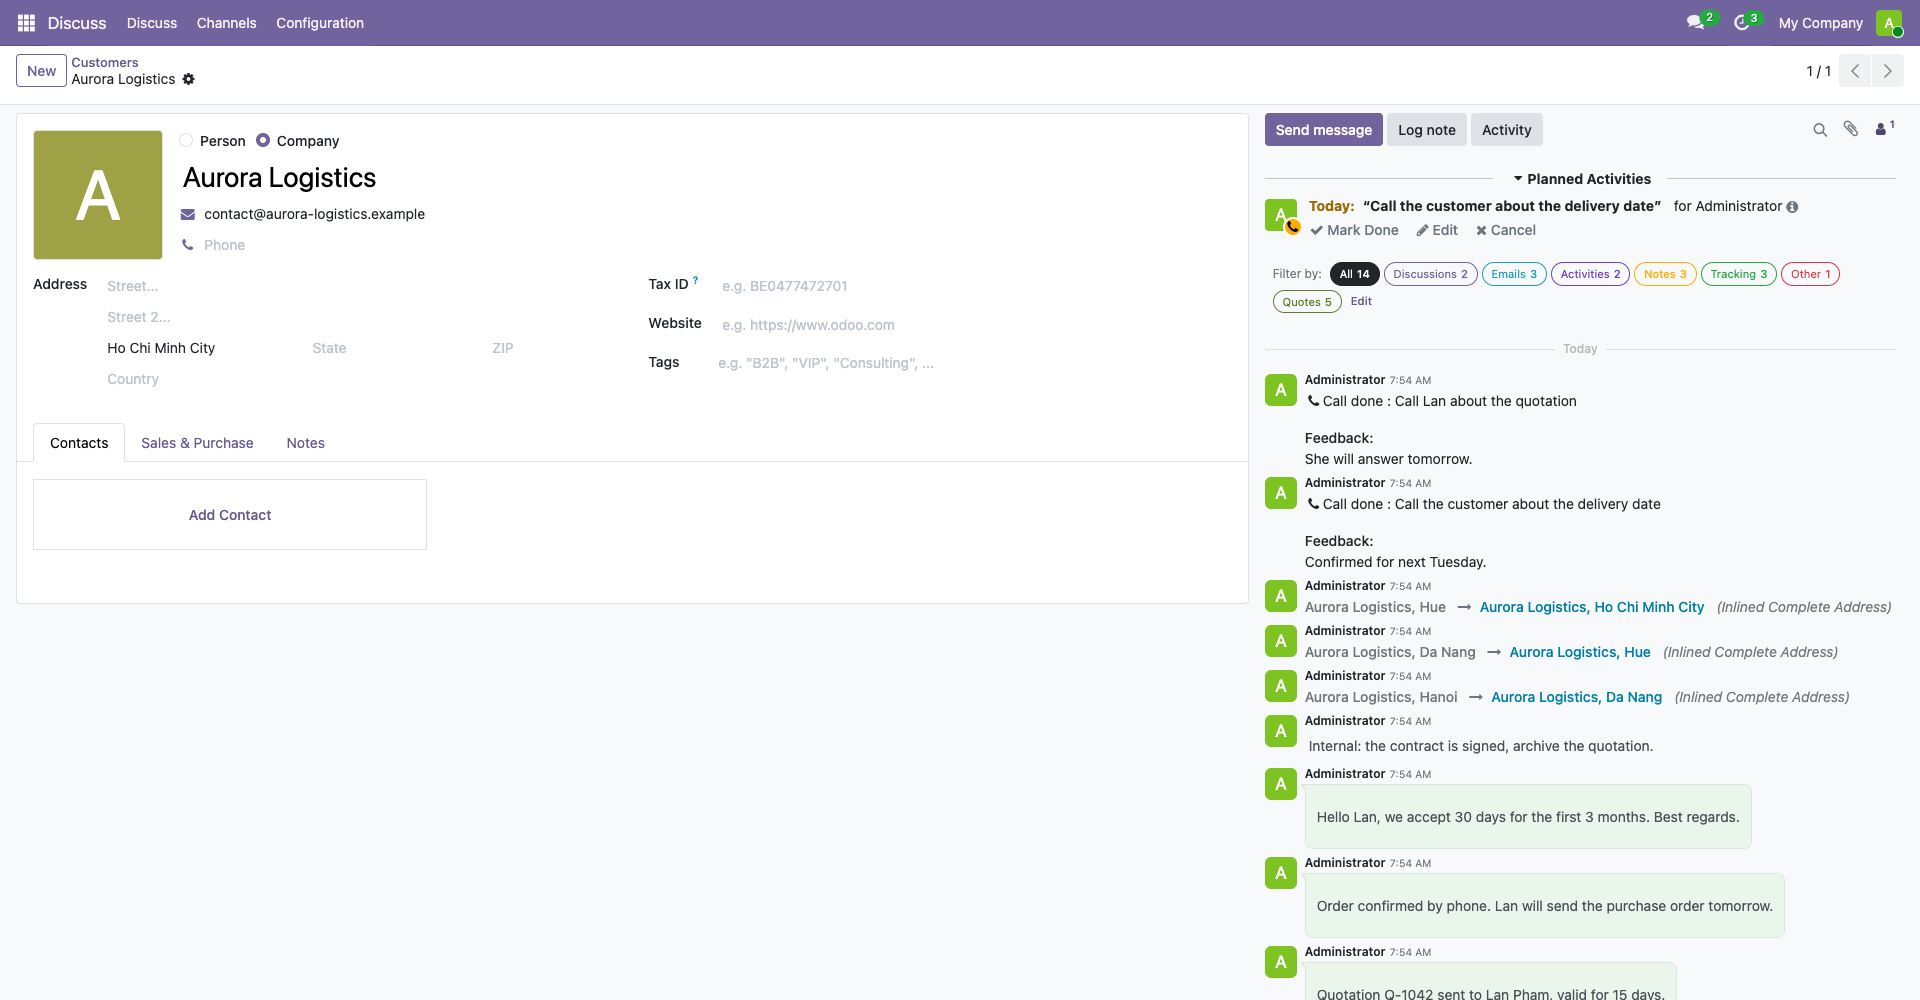
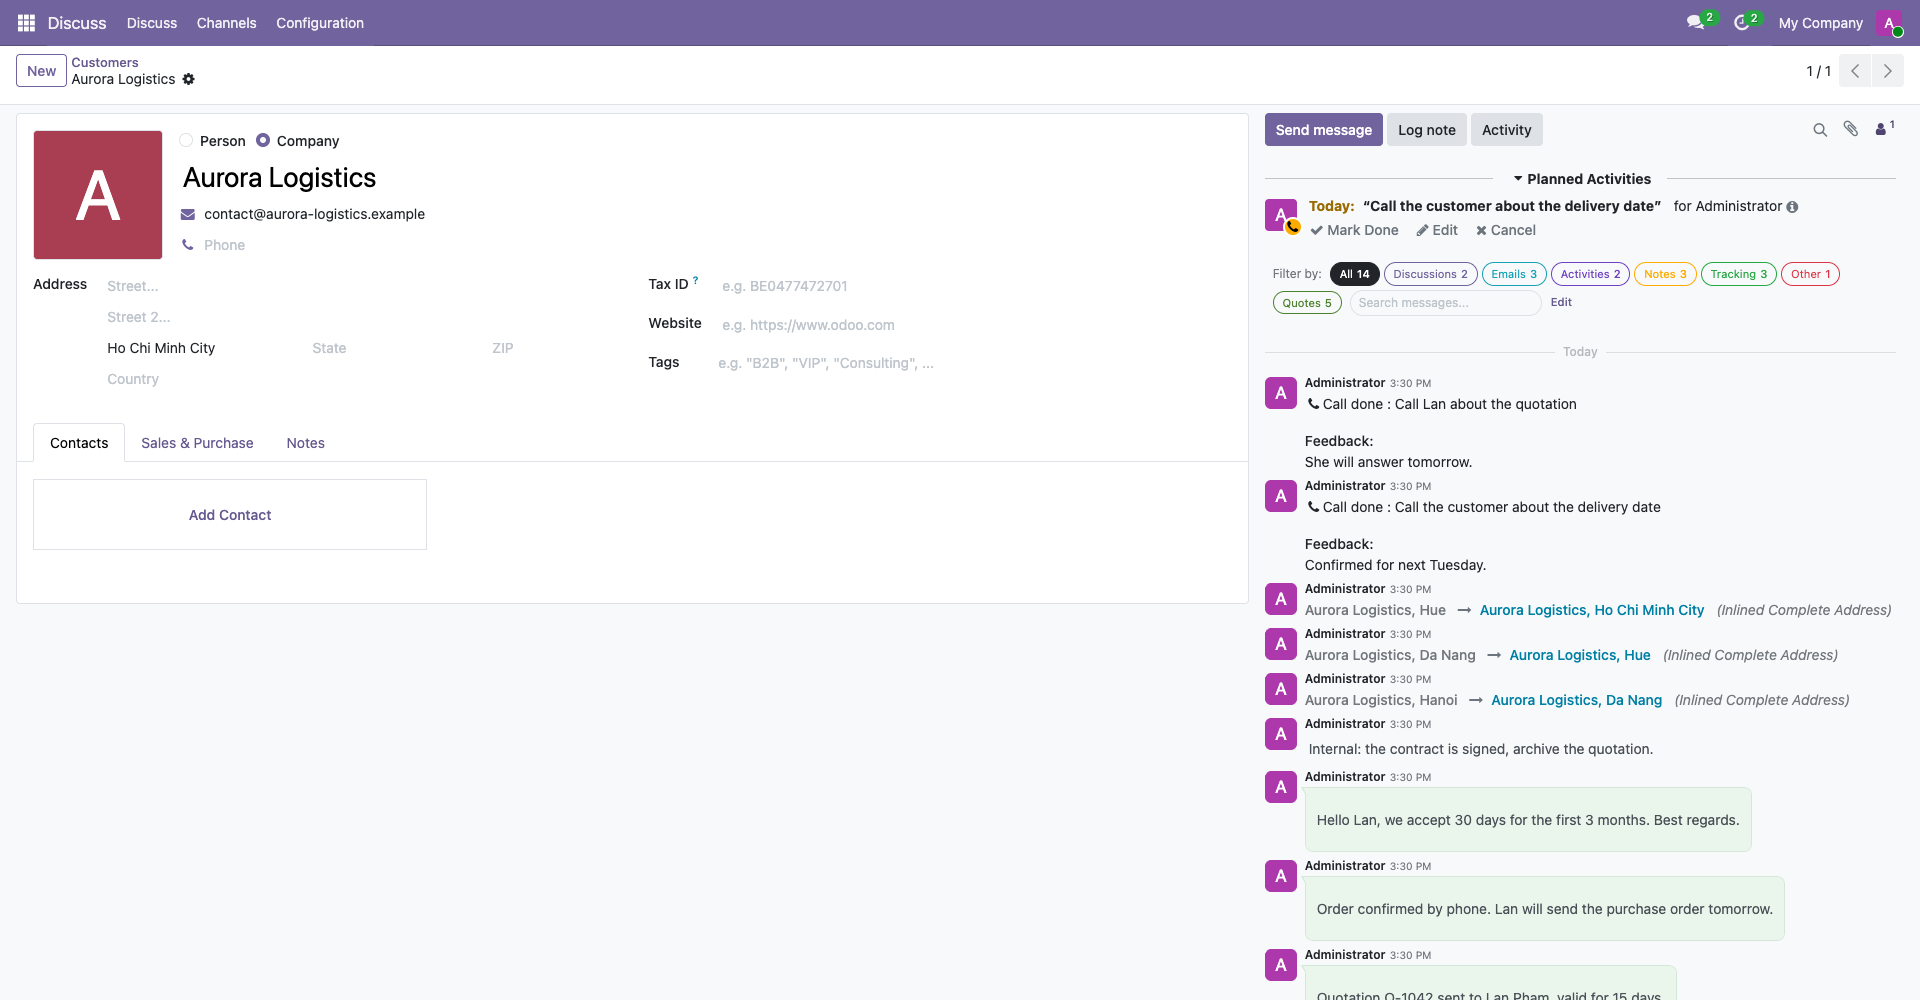
dwo_chatter_filter: search box, new screenshots and listing text

diff --git a/dwo_chatter_filter/static/description/index.html b/dwo_chatter_filter/static/description/index.html
@@ -8,7 +8,7 @@
     </div>
 
     <div class="my-5">
-        <p class="mb-4" style="font-size: 17px;">A long-lived record has hundreds of messages: talks, emails, notes, changed fields and automatic notices, all mixed. The search box only finds words. <strong>Chatter Quick Filter</strong> shows the messages you care about with one click, with the number of messages on every chip. And the chips are yours: want a <em>Quotes</em> chip, or <em>Messages from the customer</em>? The administrator makes it in a minute, and every chatter shows it.</p>
+        <p class="mb-4" style="font-size: 17px;">A long-lived record has hundreds of messages: talks, emails, notes, changed fields and automatic notices, all mixed. <strong>Chatter Quick Filter</strong> shows the messages you care about with one click, with the number of messages on every chip, and a search box right beside the chips finds the words you remember. And the chips are yours: want a <em>Quotes</em> chip, or <em>Messages from the customer</em>? The administrator makes it in a minute, and every chatter shows it.</p>
         <div class="text-center mb-4">
             <img src="flow.png" alt="Open a record, see your chips, click one, only those messages are shown" class="img-fluid rounded shadow-sm"/>
         </div>
@@ -59,8 +59,8 @@
         <div class="col-md-4 mb-4">
             <div class="card h-100" style="border-top: 4px solid #875A7B;">
                 <div class="card-body">
-                    <h4 class="font-weight-bold mt-0 mb-3" style="font-size: 18px; color: #4A2F45;">Done by the server</h4>
-                    <p class="mb-0" style="font-size: 14px;">Load more works on the filtered list, not only on what is loaded.</p>
+                    <h4 class="font-weight-bold mt-0 mb-3" style="font-size: 18px; color: #4A2F45;">Search box</h4>
+                    <p class="mb-0" style="font-size: 14px;">Type a word beside the chips: contents, subject, author or sender, together with the chip you chose.</p>
                 </div>
             </div>
         </div>
@@ -102,6 +102,12 @@
         <img src="screenshot_6.png" alt="The chatter with a new Quotes chip filtering the messages that mention a quotation" class="img-fluid rounded shadow"/>
     </div>
 
+    <h2 class="font-weight-bold mt-5 mb-3" style="font-size: 30px; color: #4A2F45;">Search beside the chips</h2>
+    <p class="mb-4" style="font-size: 16px;">Type a word and wait a moment: only the messages with it in their contents, subject, author or sender stay, and every chip count follows. <strong>X</strong> or <strong>Esc</strong> clears the box.</p>
+    <div class="text-center mb-4">
+        <img src="screenshot_7.png" alt="The chatter with the word quotation typed in the search box next to the chips, showing only the messages that contain it" class="img-fluid rounded shadow"/>
+    </div>
+
     <h2 class="font-weight-bold mt-5 mb-3" style="font-size: 30px; color: #4A2F45;">Requirements &amp; Installation</h2>
     <p class="mb-3" style="font-size: 16px;">Needs only the standard <code>mail</code> module. No external library.</p>
     <p class="mb-3 p-3 border rounded" style="font-size: 15px; border-left: 4px solid #875A7B;">For internal users. Only administrators see the Edit link. The choice of chip is not kept: the next time you open a record, all messages are shown.</p>
@@ -127,6 +133,7 @@
         <div class="tab-pane fade" id="dcf_use" role="tabpanel">
             <h4 class="font-weight-bold mt-0 mb-3" style="font-size: 18px; color: #875A7B;">Filter the messages</h4>
             <p class="mb-2" style="font-size: 14px;">Under <strong>Filter by:</strong>, click a chip to see its messages only. Click <strong>All</strong> to see everything again.</p>
+            <p class="mb-2" style="font-size: 14px;">Type in the box beside the chips to search the messages: contents, subject, author and sender, any case. It goes with the chip you chose, and the counts follow. <strong>X</strong> or <strong>Esc</strong> clears it.</p>
             <h4 class="font-weight-bold mt-0 mb-3" style="font-size: 18px; color: #875A7B;">Edit the chips (administrators)</h4>
             <p class="mb-2" style="font-size: 14px;">Click <strong>Edit</strong> after the last chip. The list shows the chips: drag a line by its handle to change the order, use the toggle to archive or bring back a chip. <strong>New</strong> makes a chip with its own colour.</p>
             <p class="mb-2" style="font-size: 14px;">Open a chip to change its name, its colour and its filter. The filter is the usual rule editor on the messages: contents, type, author, date, and more. Save, reload the page, and every chatter shows the change.</p>
@@ -137,12 +144,21 @@
         <div class="tab-pane fade" id="dcf_limits" role="tabpanel">
             <h4 class="font-weight-bold mt-0 mb-3" style="font-size: 18px; color: #875A7B;">Good to know</h4>
             <p class="mb-2" style="font-size: 14px;">It works in the chatter of a record, not in Discuss or the inbox.</p>
-            <p class="mb-2" style="font-size: 14px;">One kind at a time. While you search messages with the magnifier, the badges are hidden.</p>
+            <p class="mb-2" style="font-size: 14px;">One kind of chip at a time. The search matches the stored text of the message, which is HTML, so a word that is part of a tag name can match. Odoo's own magnifier of the chatter is separate: while you use it, the badges are hidden.</p>
         </div>
     </div>
 
     <h2 class="font-weight-bold mt-5 mb-3" style="font-size: 30px; color: #4A2F45;">Changelog</h2>
     <p class="mb-3" style="font-size: 16px;">Module releases, newest first.</p>
+    <div class="card mb-3"><div class="card-body">
+        <div class="row">
+            <div class="col-md-3 mb-2">
+                <h4 class="font-weight-bold mt-0 mb-1" style="font-size: 18px; color: #875A7B;">2.0</h4>
+                <p class="text-muted mb-0" style="font-size: 13px;">2026-11-14</p>
+            </div>
+            <div class="col-md-9"><p class="mb-0" style="font-size: 14px;">Search box beside the chips: contents, subject, author and sender, together with the chosen chip.</p></div>
+        </div>
+    </div></div>
     <div class="card mb-3"><div class="card-body">
         <div class="row">
             <div class="col-md-3 mb-2">
@@ -166,6 +182,10 @@
     <div class="card mb-3"><div class="card-body">
         <h4 class="font-weight-bold mt-0 mb-2" style="font-size: 16px; color: #4A2F45;">Who can edit the chips?</h4>
         <p class="mb-0" style="font-size: 14px;">Administrators (Settings access). Everyone else sees the chips and uses them, without the Edit link.</p>
+    </div></div>
+    <div class="card mb-3"><div class="card-body">
+        <h4 class="font-weight-bold mt-0 mb-2" style="font-size: 16px; color: #4A2F45;">What does the search box look into?</h4>
+        <p class="mb-0" style="font-size: 14px;">The contents, the subject, the name of the author and the sender email of the messages, in any case. It waits for a short pause in your typing, works together with the chip you chose, and the chip counts follow the text.</p>
     </div></div>
     <div class="card mb-3"><div class="card-body">
         <h4 class="font-weight-bold mt-0 mb-2" style="font-size: 16px; color: #4A2F45;">What can a chip filter on?</h4>

diff --git a/dwo_chatter_filter/static/src/filter/dwo_message_filter.js b/dwo_chatter_filter/static/src/filter/dwo_message_filter.js
@@ -33,19 +33,23 @@ export class DwoMessageFilter extends Component {
         this.orm = useService("orm");
         this.action = useService("action");
         this.isAdmin = user.isAdmin;
-        this.state = useState({ data: null });
+        this.state = useState({ data: null, text: "" });
+        this.searchTimer = null;
         this.timer = null;
         this.lastNewestId = undefined;
         onWillUnmount(() => {
             this.unmounted = true;
             clearTimeout(this.timer);
+            clearTimeout(this.searchTimer);
         });
         // a new record, or leaving this one: back to all the messages
         useEffect(
             (thread) => {
                 this.loadChips();
+                this.state.text = thread.dwoSearch || "";
                 return () => {
                     clearTimeout(this.timer);
+                    clearTimeout(this.searchTimer);
                     thread.dwoReset();
                 };
             },
@@ -94,6 +98,7 @@ export class DwoMessageFilter extends Component {
             const data = await this.orm.call("mail.message", "dwo_filter_chips", [
                 thread.model,
                 thread.id,
+                thread.dwoSearch || null,
             ]);
             if (this.unmounted) {
                 return;
@@ -118,7 +123,7 @@ export class DwoMessageFilter extends Component {
         this.lastNewestId = newestId;
         await this.loadChips();
         // the server decides which messages a chip shows: ask it again when a new message came
-        if (changed && thread.dwoFilter && !this.unmounted) {
+        if (changed && (thread.dwoFilter || thread.dwoSearch) && !this.unmounted) {
             await thread.dwoReload();
             this.lastNewestId = thread.newestPersistentMessage?.id;
         }
@@ -127,6 +132,36 @@ export class DwoMessageFilter extends Component {
     async select(item) {
         await this.props.thread.dwoSetFilter(item.id);
         this.lastNewestId = this.props.thread.newestPersistentMessage?.id;
+    }
+
+    /** Typing: search 300 ms after the last key. */
+    onSearchInput(ev) {
+        this.state.text = ev.target.value;
+        clearTimeout(this.searchTimer);
+        this.searchTimer = setTimeout(() => this.applySearch(), 300);
+    }
+
+    onSearchKeydown(ev) {
+        if (ev.key === "Escape" && this.state.text) {
+            ev.stopPropagation();
+            this.clearSearch();
+        }
+    }
+
+    clearSearch() {
+        this.state.text = "";
+        clearTimeout(this.searchTimer);
+        return this.applySearch();
+    }
+
+    async applySearch() {
+        const thread = this.props.thread;
+        if (this.unmounted) {
+            return;
+        }
+        await thread.dwoSetSearch(this.state.text);
+        this.lastNewestId = thread.newestPersistentMessage?.id;
+        await this.loadChips();
     }
 
     edit() {

diff --git a/dwo_chatter_filter/static/src/thread_patch.js b/dwo_chatter_filter/static/src/thread_patch.js
@@ -8,11 +8,13 @@ patch(ThreadModel.prototype, {
         super.setup(...arguments);
         /** The id of the chip chosen (the messages it shows are the only ones loaded), false for all. */
         this.dwoFilter = fields.Attr(false);
+        /** The text searched in the messages (the server searches), empty for no search. */
+        this.dwoSearch = fields.Attr("");
     },
 
     /** While a chip is chosen, the server only returns the messages of that chip (Load more included). */
     async fetchMessagesData({ after, around, before } = {}) {
-        if (!this.dwoFilter) {
+        if (!this.dwoFilter && !this.dwoSearch) {
             return super.fetchMessagesData(...arguments);
         }
         return await rpc(this.getFetchRoute(), {
@@ -24,6 +26,7 @@ patch(ThreadModel.prototype, {
                 around,
                 before,
                 dwo_filter_id: this.dwoFilter,
+                dwo_search: this.dwoSearch,
             },
         });
     },
@@ -47,6 +50,17 @@ patch(ThreadModel.prototype, {
         await this.fetchNewMessages();
     },
 
+    /** Search a text in the messages, together with the chip chosen. */
+    async dwoSetSearch(text) {
+        text = (text || "").trim();
+        if (this.dwoSearch === text) {
+            return;
+        }
+        this.dwoSearch = text;
+        this.dwoForgetMessages();
+        await this.fetchNewMessages();
+    },
+
     /** Load the messages of the chosen chip again (a message arrived: the server says if it belongs). */
     async dwoReload() {
         this.dwoForgetMessages();
@@ -55,8 +69,9 @@ patch(ThreadModel.prototype, {
 
     /** Back to all the messages, for the next time the record is opened. */
     dwoReset() {
-        if (this.dwoFilter) {
+        if (this.dwoFilter || this.dwoSearch) {
             this.dwoFilter = false;
+            this.dwoSearch = "";
             this.dwoForgetMessages();
         }
     },

diff --git a/dwo_chatter_filter/static/tests/tours/filter_tour.js b/dwo_chatter_filter/static/tests/tours/filter_tour.js
@@ -132,3 +132,31 @@ registry.category("web_tour.tours").add("dwo_chatter_filter_no_edit", {
         { trigger: ".o-mail-Chatter:not(:has(.o-dwo-filterEdit))" },
     ],
 });
+
+registry.category("web_tour.tours").add("dwo_chatter_filter_search", {
+    steps: () => [
+        { trigger: ".o-mail-Chatter" },
+        { trigger: ".o-dwo-messageFilter .o-dwo-filterSearchInput" },
+        { trigger: `${badge("all")}.o-dwo-filterActive:contains('6')` },
+        // typing: the server searches, the numbers follow the text
+        { trigger: ".o-dwo-filterSearchInput", run: "edit reminder" },
+        { trigger: `${badge("all")}:contains('1')` },
+        { trigger: showing("Private reminder") },
+        { trigger: hidden("Talk about the order") },
+        // AND with a chip
+        { trigger: badge("note"), run: "click" },
+        { trigger: showing("Private reminder") },
+        { trigger: badge("discussion") + ".o-dwo-filterEmpty" },
+        // Esc clears the text
+        {
+            trigger: ".o-dwo-filterSearchInput",
+            run() {
+                this.anchor.dispatchEvent(
+                    new KeyboardEvent("keydown", { key: "Escape", bubbles: true })
+                );
+            },
+        },
+        { trigger: `${badge("all")}:contains('6')` },
+        { trigger: ".o-dwo-filterSearchInput", run() { if (this.anchor.value) { throw new Error("The search text is not cleared"); } } },
+    ],
+});

diff --git a/dwo_chatter_filter/static/src/filter/dwo_message_filter.scss b/dwo_chatter_filter/static/src/filter/dwo_message_filter.scss
@@ -18,4 +18,6 @@
         &.o-dwo-filterEmpty { opacity: .45; cursor: default; }
     }
     .o-dwo-filterEdit { font-size: .7rem; }
+    .o-dwo-filterSearchInput { font-size: .75rem; width: 12rem; padding-right: 1.5rem; }
+    .o-dwo-filterSearchClear { text-decoration: none; line-height: 1; }
 }

diff --git a/dwo_chatter_filter/models/mail_message.py b/dwo_chatter_filter/models/mail_message.py
@@ -82,7 +82,19 @@ class MailMessage(models.Model):
         raise UserError(self.env._("Unknown kind of message: %s", category))
 
     @api.model
-    def _message_fetch(self, domain, *, dwo_filter_id=None, **kwargs):
+    def _dwo_search_domain(self, text):
+        """The messages that contain the text (any case) in the body, the subject, the name or the email of
+        the author. No text: no condition."""
+        text = (text or "").strip()
+        if not text:
+            return Domain.TRUE
+        return Domain.OR([
+            Domain("body", "ilike", text), Domain("subject", "ilike", text),
+            Domain("author_id.name", "ilike", text), Domain("email_from", "ilike", text),
+        ])
+
+    @api.model
+    def _message_fetch(self, domain, *, dwo_filter_id=None, dwo_search=None, **kwargs):
         """The chatter asks for the messages of one chip: the filter is applied by the server, so the
         pagination (Load more) works on the filtered list and not on what was already loaded. A chip that
         is gone, archived or broken filters nothing."""
@@ -96,10 +108,12 @@ class MailMessage(models.Model):
                     domain = Domain(True if domain is None else domain) & chip_domain
                 except Exception:
                     _logger.warning("Chatter Quick Filter: the filter of %r is not valid", chip.name, exc_info=True)
+        if dwo_search and isinstance(dwo_search, str) and dwo_search.strip():
+            domain = Domain(True if domain is None else domain) & self._dwo_search_domain(dwo_search)
         return super()._message_fetch(domain, **kwargs)
 
     @api.model
-    def dwo_filter_chips(self, res_model, res_id):
+    def dwo_filter_chips(self, res_model, res_id, search=None):
         """What the chatter shows above the messages of a record: the number of messages in all, and the
         chips (in their order) with the number of messages each one shows. A chip whose filter does not work
         (a field of a module that was removed) has no number; the others are not affected."""
@@ -107,7 +121,8 @@ class MailMessage(models.Model):
             raise AccessError(self.env._("Only internal users can filter the messages."))
         self.env[res_model].browse(res_id).check_access("read")
         base = (Domain("model", "=", res_model) & Domain("res_id", "=", res_id)
-                & Domain("message_type", "!=", "user_notification"))
+                & Domain("message_type", "!=", "user_notification")
+                & self._dwo_search_domain(search if isinstance(search, str) else None))
         chips = []
         for chip in self.env["dwo.chatter.filter"].search([], limit=MAX_CHIPS):
             try:

diff --git a/dwo_chatter_filter/tests/test_filter.py b/dwo_chatter_filter/tests/test_filter.py
@@ -141,3 +141,34 @@ class TestMessageFilter(MailCommon):
             "group_ids": [(6, 0, [self.env.ref("base.group_portal").id])]})
         with self.assertRaises(AccessError):
             self.env["mail.message"].with_user(portal).dwo_filter_chips("res.partner", self.record.id)
+
+    def test_search_in_body_subject_author_and_email(self):
+        Message = self.env["mail.message"].with_user(self.user_employee)
+        author = self.env["res.partner"].create({"name": "Zorbaxia Quux"})
+        self.note.write({"body": "<p>The Needle is here</p>"})
+        self.discussion_1.write({"subject": "Haystack topic"})
+        self.discussion_2.write({"author_id": author.id})
+        self.email_in.write({"email_from": "someone@sphinx-mail.test"})
+
+        def found(text, chip=None):
+            return set(Message._message_fetch(
+                None, thread=self.record, dwo_search=text, dwo_filter_id=chip)["messages"].ids)
+
+        self.assertEqual(found("needle"), {self.note.id})
+        self.assertEqual(found("HAYSTACK"), {self.discussion_1.id})
+        self.assertEqual(found("zorbaxia"), {self.discussion_2.id})
+        self.assertEqual(found("sphinx-mail"), {self.email_in.id})
+        # AND with the chip chosen
+        self.assertEqual(found("needle", self._chip("note").id), {self.note.id})
+        self.assertEqual(found("needle", self._chip("email").id), set())
+        # blank search: nothing is filtered
+        self.assertEqual(len(found("   ")), 9)
+
+    def test_counts_follow_the_search(self):
+        self.note.write({"body": "<p>The Needle is here</p>"})
+        result = self.env["mail.message"].with_user(self.user_employee).dwo_filter_chips(
+            "res.partner", self.record.id, "needle")
+        self.assertEqual(result["all"], 1)
+        counts = {chip["name"]: chip["count"] for chip in result["chips"]}
+        self.assertEqual(counts["Notes"], 1)
+        self.assertEqual(sum(counts.values()), 1)

diff --git a/dwo_chatter_filter/tests/test_filter_tour.py b/dwo_chatter_filter/tests/test_filter_tour.py
@@ -29,6 +29,9 @@ class TestMessageFilterTour(HttpCase):
     def test_filter_tour(self):
         self.start_tour(f"/odoo/action-base.action_partner_form/{self.record.id}", "dwo_chatter_filter", login="admin")
 
+    def test_filter_search_tour(self):
+        self.start_tour(f"/odoo/action-base.action_partner_form/{self.record.id}", "dwo_chatter_filter_search", login="admin")
+
     def test_filter_edit_tour(self):
         self.start_tour(f"/odoo/action-base.action_partner_form/{self.record.id}", "dwo_chatter_filter_edit", login="admin")
 

diff --git a/dwo_chatter_filter/docs/CHANGELOG.md b/dwo_chatter_filter/docs/CHANGELOG.md
@@ -1,0 +1,8 @@
+# Changelog
+
+## 2026-11-14 - search box (19.0.2.0.0, no version bump)
+- Search box on the chip row (always visible): searches `body`, `subject`, author name and `email_from`, case-insensitive, 300 ms after the last key, AND with the chosen chip. X button and Esc clear it.
+- Server: `mail.message._message_fetch(..., dwo_search=)` and `dwo_filter_chips(res_model, res_id, search=None)` (chip counts follow the text); helper `_dwo_search_domain(text)`. No new field/model/migration.
+- JS: `thread.dwoSearch`, `thread.dwoSetSearch(text)`; Odoo's own search button is left as it is.
+- Tests: `test_search_in_body_subject_author_and_email`, `test_counts_follow_the_search`, tour `dwo_chatter_filter_search` (32 tests green on Odoo 19).
+- Trade-off: `body` is HTML, so the match is on the stored HTML (a word inside a tag name can match). No highlight (decided on issue #14).
